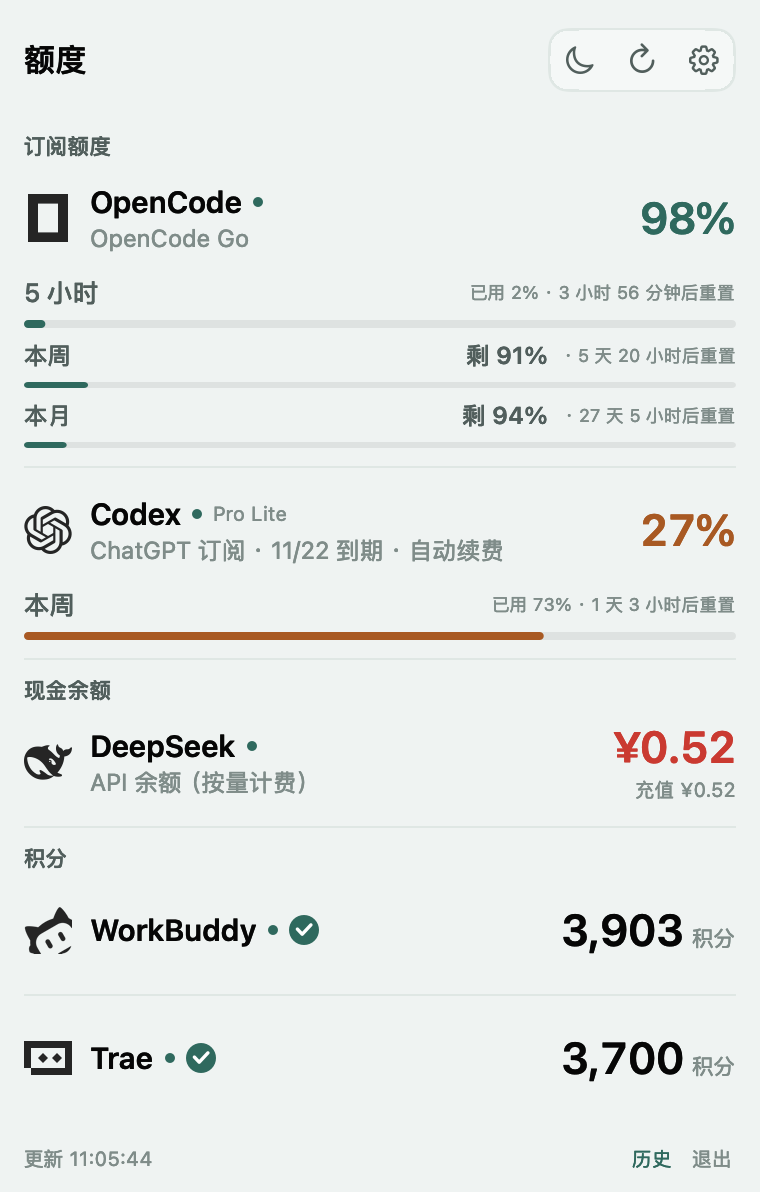
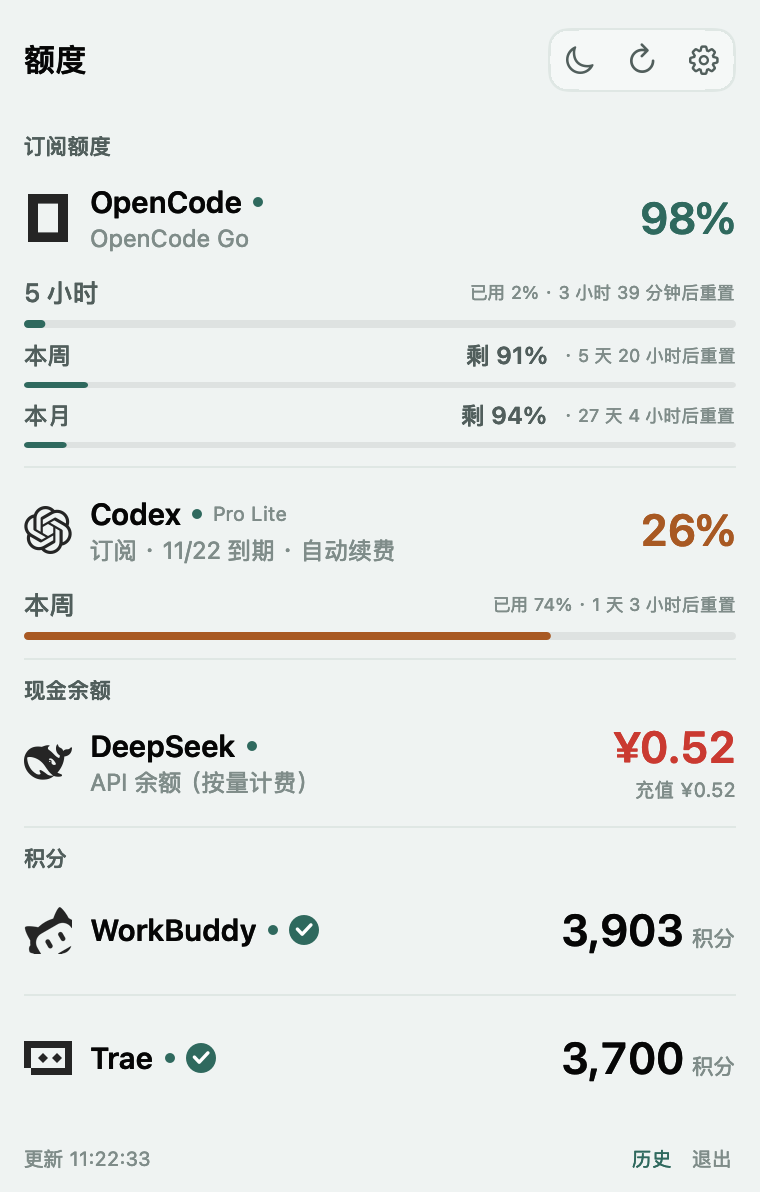
Unify provider presentation and state semantics

diff --git a/Sources/AgentQuotaBar/PopoverViewController.swift b/Sources/AgentQuotaBar/PopoverViewController.swift
@@ -441,8 +441,8 @@ final class QuotaPopoverViewController: NSViewController {
             empty.widthAnchor.constraint(equalTo: rowsStack.widthAnchor).isActive = true
         }
         for (index, provider) in ordered.enumerated() {
-            let category = Self.category(for: provider)
-            let showsCategory = index == 0 || Self.category(for: ordered[index - 1]) != category
+            let category = provider.category
+            let showsCategory = index == 0 || ordered[index - 1].category != category
             let row = ProviderRowView(
                 provider: provider,
                 todaySpent: UsageTracker.shared.todaySpent(for: provider.id),
@@ -520,8 +520,8 @@ final class QuotaPopoverViewController: NSViewController {
         // 服务顺序可以自定义，但分组顺序固定：订阅额度 → 现金余额 → 积分。
         let categoryRank = ["订阅额度": 0, "现金余额": 1, "积分": 2]
         result.sort {
-            let left = categoryRank[Self.category(for: $0)] ?? 9
-            let right = categoryRank[Self.category(for: $1)] ?? 9
+            let left = categoryRank[$0.category] ?? 9
+            let right = categoryRank[$1.category] ?? 9
             return left < right
         }
         return result
@@ -753,21 +753,16 @@ final class ProviderRowView: NSView {
         statusDot.translatesAutoresizingMaskIntoConstraints = false
         statusDot.widthAnchor.constraint(equalToConstant: 6).isActive = true
         statusDot.heightAnchor.constraint(equalToConstant: 6).isActive = true
-        let statusColor: NSColor
-        switch provider.status {
-        case "ok", "warn": statusColor = QuotaStyle.healthyColor
-        case "unconfigured": statusColor = .systemOrange
-        case "error": statusColor = .systemRed
-        default: statusColor = Theme.tertiary
-        }
-        statusDot.color = statusColor
-        statusDot.toolTip = provider.status == "ok" ? "已连接" : (provider.error ?? provider.detail ?? provider.status)
+        statusDot.color = provider.connection.color
+        statusDot.toolTip = provider.connection == .online
+            ? "已连接"
+            : (provider.error ?? provider.detail ?? provider.connection.title)
         let nameRow = NSStackView(views: [name, statusDot])
         nameRow.orientation = .horizontal
         nameRow.spacing = 5
         nameRow.alignment = .centerY
-        if let plan = provider.plan, !plan.isEmpty {
-            nameRow.addArrangedSubview(label(Self.displayPlan(plan), size: 10, color: Theme.tertiary))
+        if let plan = provider.displayPlan {
+            nameRow.addArrangedSubview(label(plan, size: 10, color: Theme.tertiary))
         }
         if provider.id == "trae" || provider.id == "workbuddy" {
             if checkinDone {
@@ -808,7 +803,7 @@ final class ProviderRowView: NSView {
             nameRow.addArrangedSubview(label("待配置", size: 10, weight: .medium, color: .systemOrange))
         }
 
-        let subText = subtitle(for: provider)
+        let subText = provider.displaySubtitle
         let info = NSStackView(views: subText.isEmpty ? [nameRow] : [nameRow, label(subText, size: 12, color: Theme.tertiary)])
         info.orientation = .vertical
         info.alignment = .leading
@@ -818,7 +813,7 @@ final class ProviderRowView: NSView {
         spacer.setContentHuggingPriority(NSLayoutConstraint.Priority(1), for: .horizontal)
         spacer.setContentCompressionResistancePriority(NSLayoutConstraint.Priority(1), for: .horizontal)
 
-        let value = label(valueText(provider), size: 22, weight: .semibold, color: valueColor(provider), monospaced: true)
+        let value = label(provider.displayPrimaryValue, size: 22, weight: .semibold, color: valueColor(provider), monospaced: true)
         value.alignment = .right
 
         let valueRow = NSStackView()
@@ -826,8 +821,8 @@ final class ProviderRowView: NSView {
         valueRow.alignment = .firstBaseline
         valueRow.spacing = 4
         valueRow.addArrangedSubview(value)
-        if provider.id == "trae" || provider.id == "workbuddy" {
-            valueRow.addArrangedSubview(label("积分", size: 11, color: Theme.tertiary))
+        if let unit = provider.unitSuffix {
+            valueRow.addArrangedSubview(label(unit, size: 11, color: Theme.tertiary))
         }
         let valueStack = NSStackView()
         valueStack.orientation = .vertical
@@ -1054,34 +1049,6 @@ final class ProviderRowView: NSView {
         provider.metrics.contains { ($0.remainingPercent ?? 100) <= 20 }
     }
 
-    private func subtitle(for provider: ProviderStatus) -> String {
-        switch provider.status {
-        case "ok", "warn":
-            if provider.id == "codex" {
-                if let raw = provider.subscriptionUntil,
-                   let date = ISO8601DateFormatter.flexible.date(from: raw)
-                    ?? ISO8601DateFormatter().date(from: raw) {
-                    let formatter = DateFormatter()
-                    formatter.locale = Locale(identifier: "zh_CN")
-                    formatter.dateFormat = "M/d"
-                    let renew = provider.subscriptionWillRenew == true ? " · 自动续费" : ""
-                    return "ChatGPT 订阅 · \(formatter.string(from: date)) 到期\(renew)"
-                }
-                return "ChatGPT 订阅"
-            }
-            if provider.id == "deepseek" { return "API 余额（按量计费）" }
-            if provider.id == "trae" || provider.id == "workbuddy" { return "" }
-            let detail = provider.detail ?? "已连接"
-            return detail.replacingOccurrences(of: " 订阅额度", with: "")
-        case "error":
-            return errorSummary(for: provider)
-        case "unconfigured":
-            return "还未连接"
-        default:
-            return ""
-        }
-    }
-
     private func errorSummary(for provider: ProviderStatus) -> String {
         ProviderErrorText.summary(provider.error)
     }
@@ -1090,27 +1057,10 @@ final class ProviderRowView: NSView {
         ProviderErrorText.hint(for: errorSummary(for: provider))
     }
 
-    private func valueText(_ provider: ProviderStatus) -> String {
-        if let percent = provider.metrics.first(where: { $0.kind == "percent" })?.remainingPercent {
-            return "\(Int(percent.rounded()))%"
-        }
-        if let credit = provider.metrics.first(where: { $0.kind == "credit" }) {
-            if let text = credit.headlineValue, (credit.currency ?? "").isEmpty,
-               let number = Int(text) {
-                return NumberFormatter.grouped.string(from: NSNumber(value: number)) ?? text
-            }
-            return credit.headlineValue ?? "—"
-        }
-        if let text = provider.metrics.first(where: { $0.kind == "text" }) {
-            return text.headlineValue ?? "—"
-        }
-        return "—"
-    }
-
     private func valueCaption(_ provider: ProviderStatus, todaySpent: Double?) -> String? {
         guard provider.metrics.contains(where: { $0.kind == "credit" }),
               let spent = todaySpent, spent > 0.0001 else { return nil }
-        if provider.id == "deepseek" {
+        if case .currency = provider.unit {
             return String(format: "今日 -¥%.2f", spent)
         }
         return "今日 -\(Int(spent.rounded()))"
@@ -1118,8 +1068,8 @@ final class ProviderRowView: NSView {
 
     private func valueColor(_ provider: ProviderStatus) -> NSColor {
         if provider.status == "error" { return .labelColor }
-        if let percent = provider.metrics.first(where: { $0.kind == "percent" })?.remainingPercent {
-            return QuotaSeverity.from(remaining: percent).color
+        if provider.metrics.contains(where: { $0.kind == "percent" }) {
+            return provider.health.color
         }
         if let creditColor = QuotaStyle.creditColor(for: provider) {
             return creditColor

diff --git a/Sources/AgentQuotaBar/ProviderPresentation.swift b/Sources/AgentQuotaBar/ProviderPresentation.swift
@@ -1,0 +1,144 @@
+import AppKit
+
+/// UI 只消费这个模型，不再在 popover 里按 provider id 拼文案。
+/// 数据仍来自 collector，但「主指标 / 单位 / 类别 / 状态」在这里一次性确定。
+enum ProviderConnection {
+    case online
+    case unconfigured
+    case offline
+    case disabled
+
+    var title: String {
+        switch self {
+        case .online: return "已连接"
+        case .unconfigured: return "需要配置"
+        case .offline: return "连接失败"
+        case .disabled: return "已停用"
+        }
+    }
+
+    var color: NSColor {
+        switch self {
+        case .online: return QuotaStyle.healthyColor
+        case .unconfigured: return .systemOrange
+        case .offline: return .systemRed
+        case .disabled: return Theme.tertiary
+        }
+    }
+}
+
+enum ProviderUnit {
+    case percent
+    case currency(String)
+    case points
+    case none
+}
+
+extension ProviderStatus {
+    var connection: ProviderConnection {
+        switch status {
+        case "ok", "warn": return .online
+        case "unconfigured": return .unconfigured
+        case "error": return .offline
+        default: return .disabled
+        }
+    }
+
+    var category: String {
+        if metrics.contains(where: { $0.kind == "percent" }) { return "订阅额度" }
+        if balance != nil || metrics.contains(where: { $0.kind == "currency" }) { return "现金余额" }
+        if metrics.contains(where: { $0.kind == "credit" }) { return "积分" }
+        return "其他"
+    }
+
+    var unit: ProviderUnit {
+        if metrics.contains(where: { $0.kind == "percent" }) { return .percent }
+        if let credit = metrics.first(where: { $0.kind == "credit" }) {
+            if let currency = credit.currency, !currency.isEmpty {
+                return .currency(currency)
+            }
+            return .points
+        }
+        if let currency = metrics.first(where: { $0.kind == "currency" })?.currency {
+            return .currency(currency)
+        }
+        if balance != nil { return .currency("CNY") }
+        return .none
+    }
+
+    var unitSuffix: String? {
+        switch unit {
+        case .percent, .currency, .none: return nil
+        case .points: return "积分"
+        }
+    }
+
+    var displayPrimaryValue: String {
+        if let percent = metrics.first(where: { $0.kind == "percent" })?.remainingPercent {
+            return "\(Int(percent.rounded()))%"
+        }
+        if let credit = metrics.first(where: { $0.kind == "credit" }), let text = credit.headlineValue {
+            if let currency = credit.currency, !currency.isEmpty {
+                return text.hasPrefix("¥") || text.hasPrefix("$") ? text : "\(currencySymbol)\(text)"
+            }
+            return formattedNumber(text)
+        }
+        if let balance {
+            let symbol = currencySymbol
+            return "\(symbol)\(String(format: balance >= 100 ? "%.0f" : "%.2f", balance))"
+        }
+        if let headline, !headline.isEmpty { return headline }
+        return ""
+    }
+
+    var displaySubtitle: String {
+        if let raw = subscriptionUntil,
+           let date = ISO8601DateFormatter.flexible.date(from: raw)
+            ?? ISO8601DateFormatter().date(from: raw) {
+            let formatter = DateFormatter()
+            formatter.locale = Locale(identifier: "zh_CN")
+            formatter.dateFormat = "M/d"
+            let renew = subscriptionWillRenew == true ? " · 自动续费" : ""
+            return "订阅 · \(formatter.string(from: date)) 到期\(renew)"
+        }
+        if case .currency = unit { return "API 余额（按量计费）" }
+        if case .points = unit { return "" }
+        if let detail, !detail.isEmpty { return detail.replacingOccurrences(of: " 订阅额度", with: "") }
+        return connection.title
+    }
+
+    var displayPlan: String? {
+        guard let plan, !plan.isEmpty else { return nil }
+        switch plan.lowercased() {
+        case "prolite": return "Pro Lite"
+        case "pro": return "Pro"
+        case "free": return "免费"
+        default: return plan
+        }
+    }
+
+    /// 额度健康只看剩余/余额阈值；连接状态单独由 connection 表达。
+    var health: QuotaSeverity {
+        if let remaining = metrics.filter({ $0.kind == "percent" }).compactMap(\.remainingPercent).min() {
+            return QuotaSeverity.from(remaining: remaining)
+        }
+        return .healthy
+    }
+
+    private var currencySymbol: String {
+        switch (metrics.first(where: { $0.kind == "currency" })?.currency
+                ?? metrics.first(where: { $0.kind == "credit" })?.currency ?? "CNY").uppercased() {
+        case "USD": return "$"
+        case "EUR": return "€"
+        default: return "¥"
+        }
+    }
+
+    private func formattedNumber(_ text: String) -> String {
+        guard let number = Int(text.replacingOccurrences(of: ",", with: "")) else { return text }
+        let formatter = NumberFormatter()
+        formatter.numberStyle = .decimal
+        formatter.maximumFractionDigits = 0
+        return formatter.string(from: NSNumber(value: number)) ?? text
+    }
+}

diff --git a/Sources/AgentQuotaBar/SettingsWindowController.swift b/Sources/AgentQuotaBar/SettingsWindowController.swift
@@ -1,7 +1,9 @@
 import AppKit
 
 private var appVersionText: String {
-    "v" + ((Bundle.main.infoDictionary?["CFBundleShortVersionString"] as? String) ?? "0.4")
+    let short = (Bundle.main.infoDictionary?["CFBundleShortVersionString"] as? String) ?? "0.4"
+    let build = (Bundle.main.infoDictionary?["CFBundleVersion"] as? String) ?? "?"
+    return "v\(short) · build \(build)"
 }
 
 /// 玻璃面板：NSVisualEffectView + 高光边，接近 Liquid Glass 的层次。
